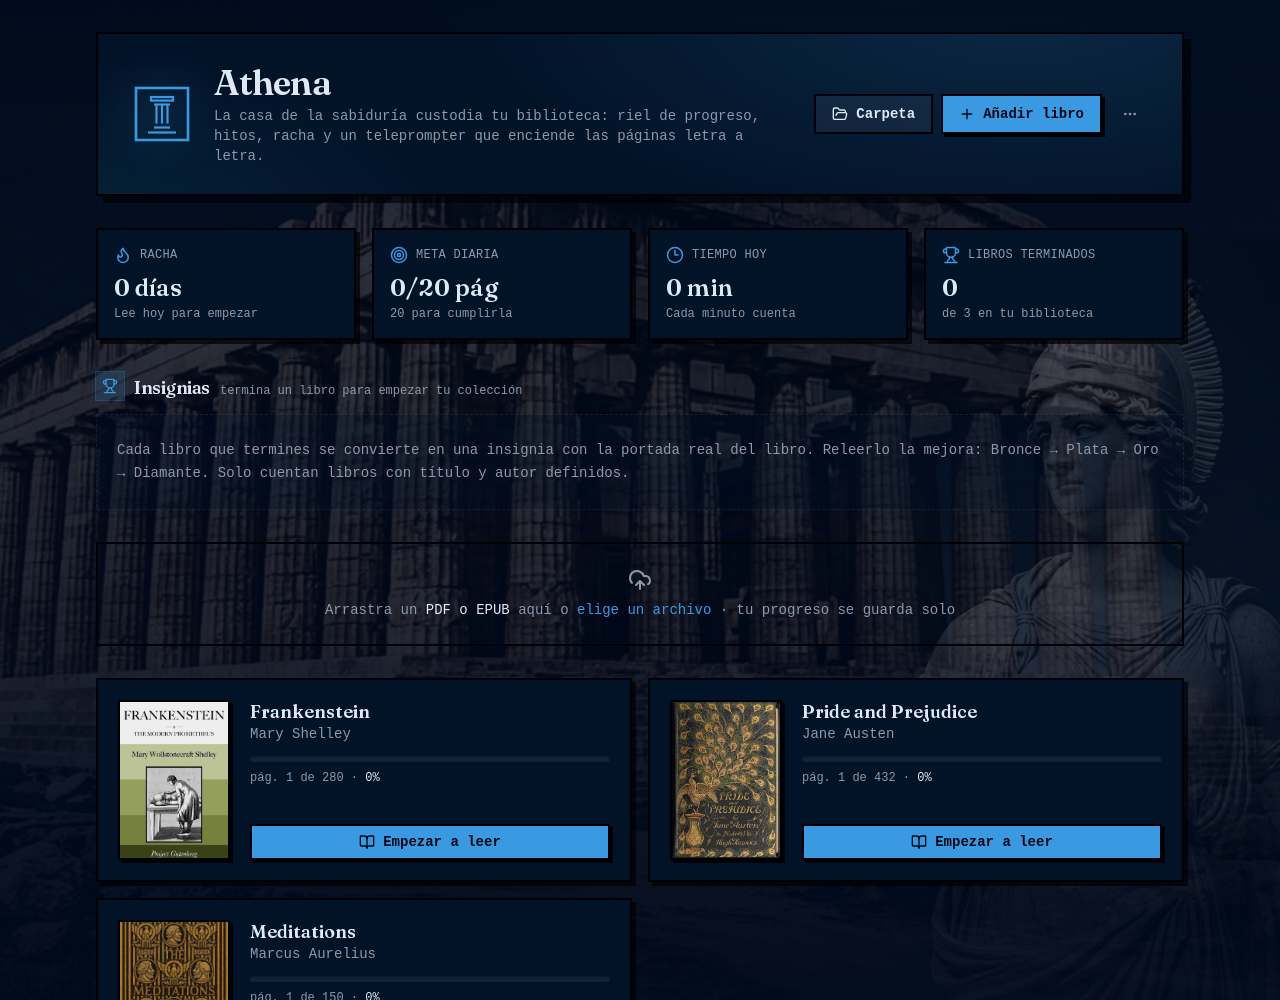
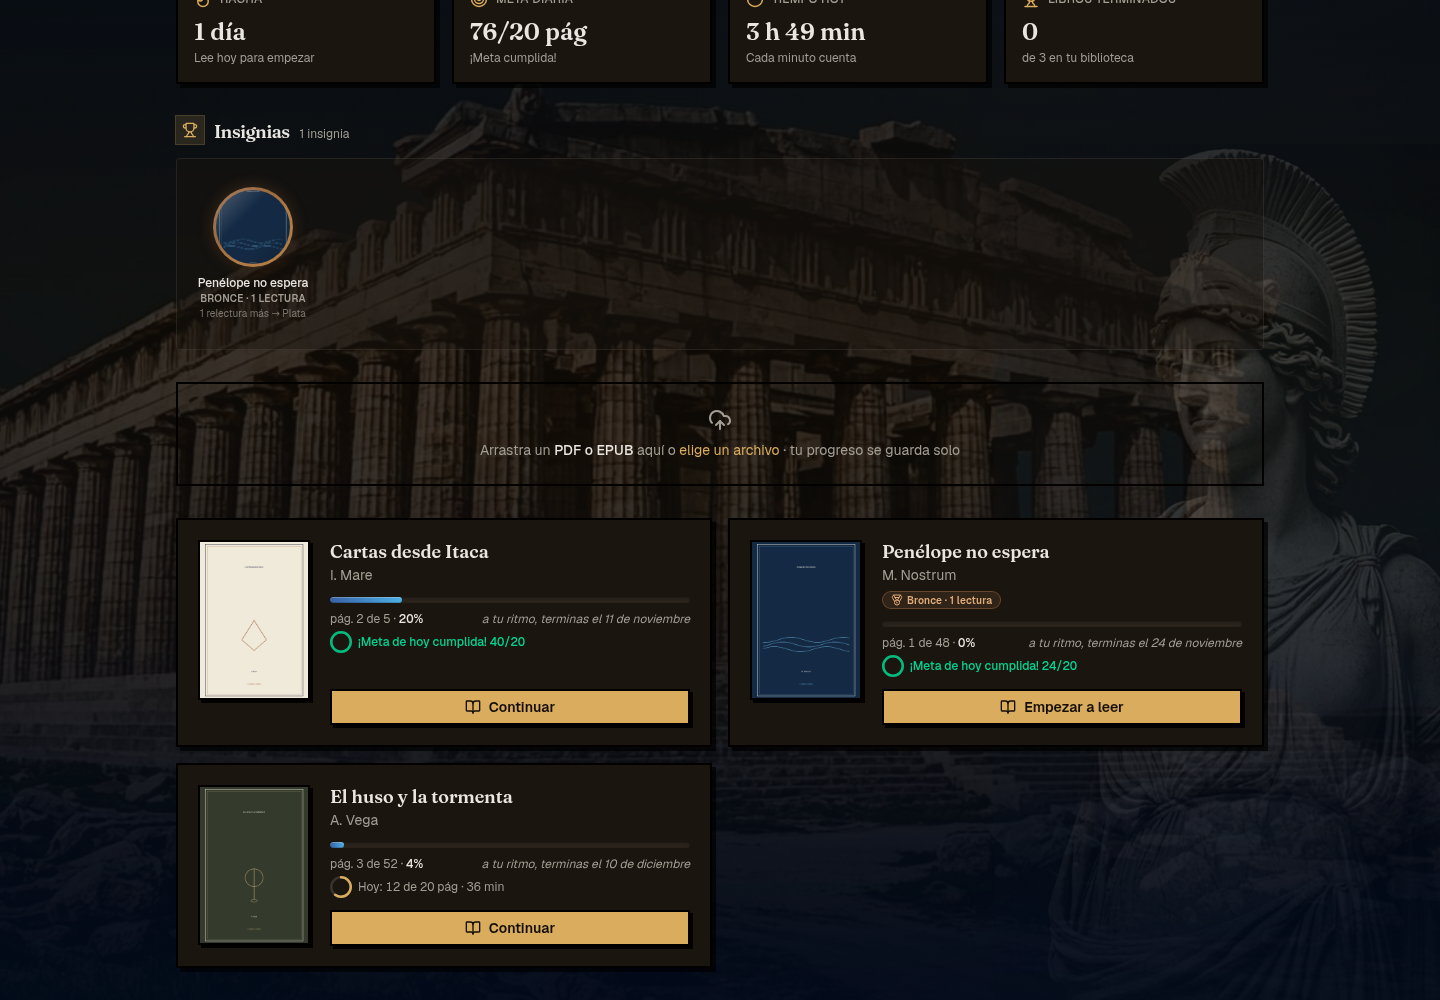
chore: audit old files, drop dead code and stale config
- fix components.json: it still pointed at src/app/globals.css from the
  Next.js era and declared rsc:true (this is a Vite SPA)
- delete src/lib/view-anim.ts: superseded by camera.ts, referenced only
  in a comment; update that comment
- delete public/logo.svg: unreferenced (the seal and wordmark are the
  brand assets in use)
- delete scripts/deploy/Caddyfile: orphan reverse-proxy recipe from a
  past deployment experiment, referenced nowhere
- .gitignore: drop Vercel/Yarn/pnpm/python leftovers from previous eras
- eslint: drop ignores for directories that no longer exist

diff --git a/src/lib/camera.ts b/src/lib/camera.ts
@@ -2,11 +2,11 @@
  * Cámara del teleprompter: UN solo bucle rAF persistente con interpolación
  * exponencial (change teleprompter-camara-estable).
  *
- * Por qué reemplaza a `view-anim.ts`: la cámara vieja creaba una animación
- * ease-out NUEVA por cada orden de cámara. En modo automático las órdenes
- * llegan letra a letra (cada 20-160 ms según la velocidad) y cada reinicio
- * arrancaba su curva con velocidad máxima: la columna avanzaba a tirones
- * («brincos») y al terminar cada curva se detenía en seco hasta la siguiente.
+ * Historia: la primera cámara creaba una animación ease-out NUEVA por cada
+ * orden de cámara (ya retirada). En modo automático las órdenes llegan letra
+ * a letra (cada 20-160 ms según la velocidad) y cada reinicio arrancaba su
+ * curva con velocidad máxima: la columna avanzaba a tirones («brincos») y al
+ * terminar cada curva se detenía en seco hasta la siguiente.
  *
  * La cámara nueva NO se reinicia nunca: mantiene un objetivo (`target`) que
  * las órdenes actualizan, y cada cuadro avanza hacia él con un suavizado
